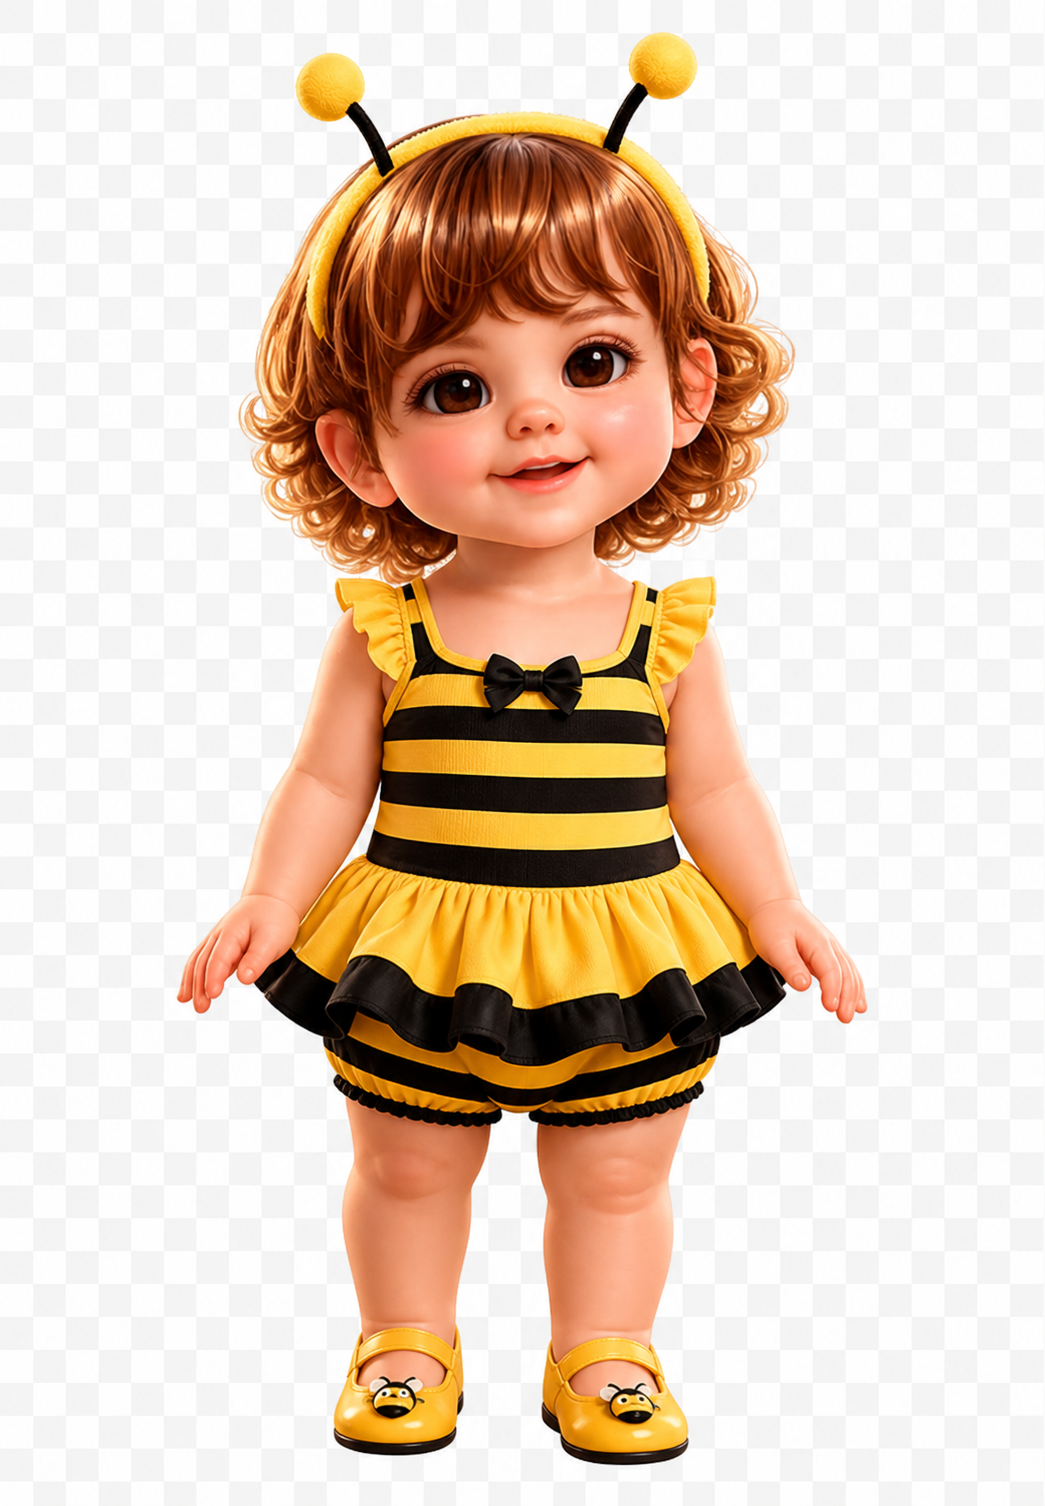
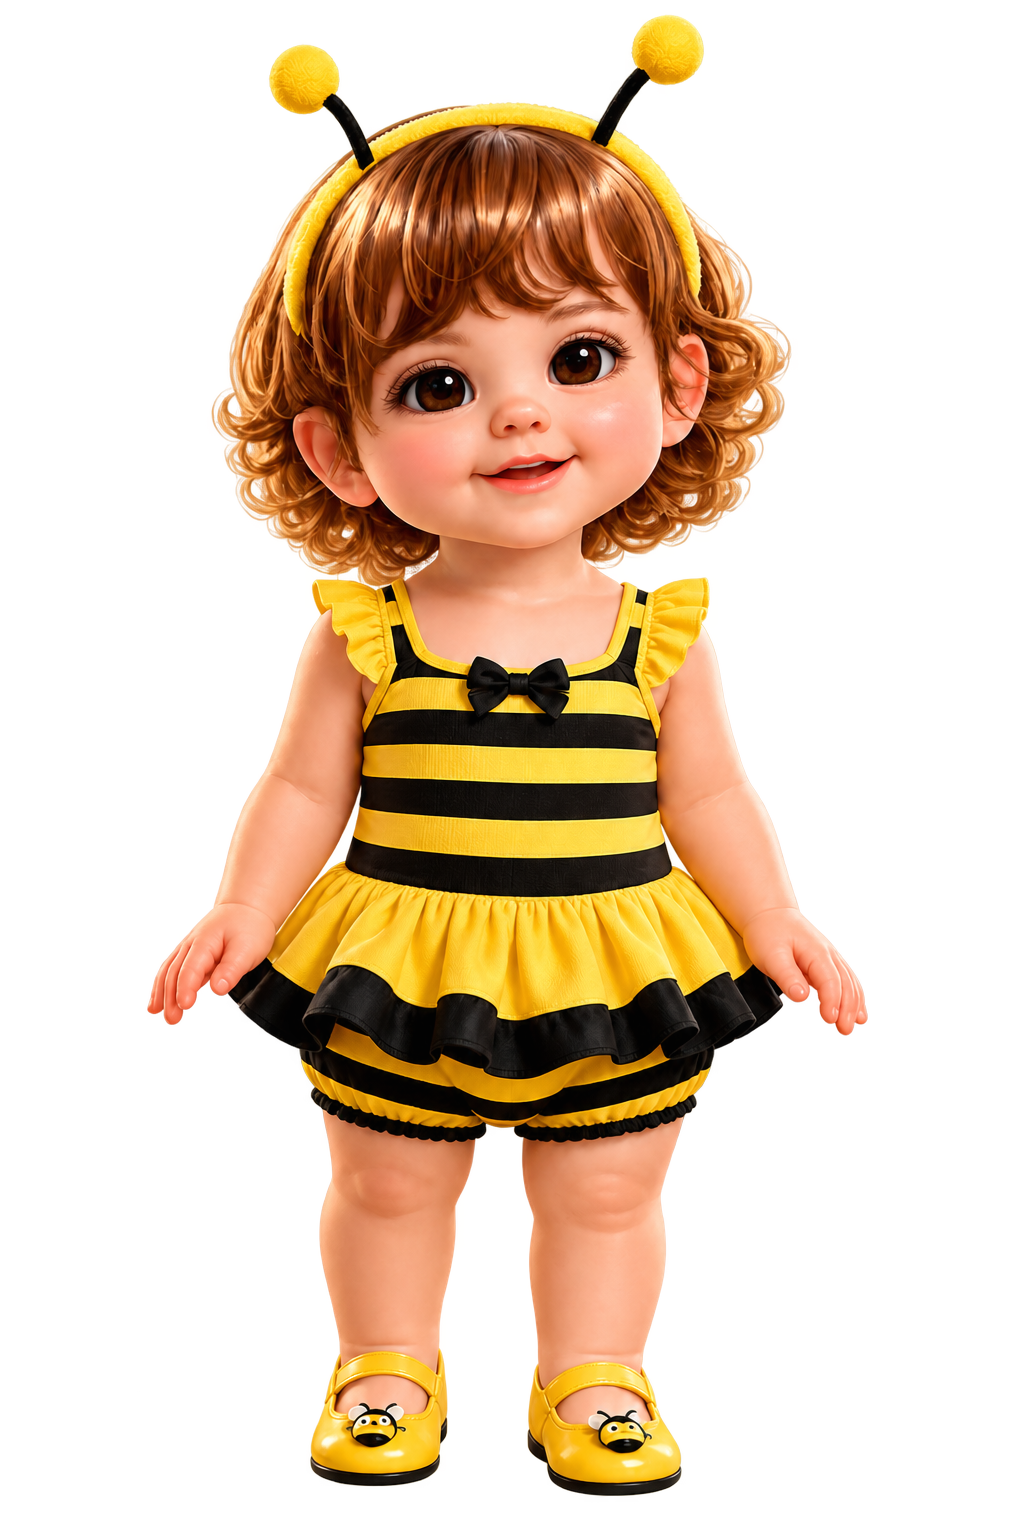
Refine wardrobe looks and mobile home layout

Changed region(s): [[0.125, 0.0, 0.8438, 0.9675]]

diff --git a/public/app/script.js b/public/app/script.js
@@ -24,12 +24,12 @@ function renderFindRound(){const group=findGroups[Math.floor(Math.random()*findG
 function chooseFind(button,item){if(button.parentElement.classList.contains("answered"))return;if(item===findTarget){button.parentElement.classList.add("answered");button.classList.add("is-correct");document.querySelector("#find-feedback").textContent="⭐ ¡Muy bien! ⭐";findRound++;updateFindProgress();playVoiceFile(findRound===5?"sonidos/voz/contenidos/guias/juego-completo.mp3?v=1":"sonidos/voz/mascota/1.mp3?v=2");findTimer=setTimeout(()=>{if(findRound===5)startFindGame();else renderFindRound()},1700)}else{button.classList.add("is-wrong");document.querySelector("#find-feedback").textContent="💛 Prueba otra vez";playVoiceFile("sonidos/voz/contenidos/guias/otra-vez.mp3?v=1");setTimeout(()=>button.classList.remove("is-wrong"),650)}}
 document.querySelector("#repeat-find").onclick=playFindPrompt;
 
-const outfits={original:"Su look original",jardinera:"Jardinera arcoíris",lluvia:"Ropa de lluvia",pijama:"Pijama de estrellas",arcoiris:"Vestido arcoíris",astronauta:"Traje de astronauta",abejita:"Disfraz de abejita",invierno:"Ropa de invierno"};
+const outfits={original:"Su look original",jardinera:"Jardinera arcoíris",lluvia:"Ropa de lluvia",pijama:"Pijama de estrellas",arcoiris:"Vestido arcoíris",astronauta:"Traje de astronauta",abejita:"Disfraz de abejita",invierno:"Ropa de invierno",blanco:"Conjunto blanco",["azul-lazo"]:"Vestido azul con lazo",ceremonia:"Vestido verde agua",coral:"Conjunto salmón"};
 const outfitImage=name=>name==="original"?"img/personajes/niña.png":`img/personajes/armario/${name}.png`;
 let selectedOutfit=(()=>{try{const saved=localStorage.getItem("holaPequeOutfit");return saved==="flores"?"original":outfits[saved]?saved:"original"}catch{return "original"}})();
 function showChosenOutfit(name){const src=outfitImage(name),mascot=document.querySelector("#mascot-button .mascot"),card=document.querySelector(".card-illustration--dress");if(mascot){mascot.src=src;mascot.alt=`Nuestra amiga lleva ${outfits[name].toLowerCase()}`}if(card)card.src=src}
 let wardrobeCarousel=null,wardrobeDirection=1;
-function startLookCarousel(){const rail=document.querySelector(".outfit-list");clearInterval(wardrobeCarousel);wardrobeDirection=1;rail.scrollTo({left:0,behavior:"auto"});wardrobeCarousel=setInterval(()=>{const end=rail.scrollWidth-rail.clientWidth;if(end<2)return;wardrobeDirection=rail.scrollLeft>=end-4?-1:rail.scrollLeft<=4?1:wardrobeDirection;rail.scrollBy({left:wardrobeDirection*Math.min(220,rail.clientWidth*.7),behavior:"smooth"})},1350)}
+function startLookCarousel(){const rail=document.querySelector(".outfit-list"),vertical=matchMedia("(max-width:560px)").matches;clearInterval(wardrobeCarousel);wardrobeDirection=1;rail.scrollTo({left:0,top:0,behavior:"auto"});wardrobeCarousel=setInterval(()=>{const pos=vertical?rail.scrollTop:rail.scrollLeft,end=vertical?rail.scrollHeight-rail.clientHeight:rail.scrollWidth-rail.clientWidth;if(end<2)return;wardrobeDirection=pos>=end-4?-1:pos<=4?1:wardrobeDirection;rail.scrollBy(vertical?{top:wardrobeDirection*Math.min(180,rail.clientHeight*.65),behavior:"smooth"}:{left:wardrobeDirection*Math.min(220,rail.clientWidth*.7),behavior:"smooth"})},1350)}
 function speakWardrobeIntro(){if(!("speechSynthesis" in window))return;window.speechSynthesis.cancel();const phrase=new SpeechSynthesisUtterance("¡Elige un look!");phrase.lang="es-ES";phrase.rate=.82;phrase.pitch=1.25;const voices=window.speechSynthesis.getVoices(),voice=voices.find(v=>v.lang.toLowerCase().startsWith("es")&&/female|mujer|elvira|ximena|dalia|helena|lucia|paulina/i.test(v.name))||voices.find(v=>v.lang.toLowerCase().startsWith("es"));if(voice)phrase.voice=voice;window.speechSynthesis.speak(phrase)}
 function startWardrobe(){changeOutfit(selectedOutfit,false);document.querySelector("#wardrobe-feedback").textContent="";startLookCarousel();speakWardrobeIntro()}
 function changeOutfit(name,speak=true){selectedOutfit=name;try{localStorage.setItem("holaPequeOutfit",name)}catch{}const avatar=document.querySelector("#wardrobe-avatar");avatar.classList.remove("is-changing");void avatar.offsetWidth;avatar.src=outfitImage(name);avatar.alt=`La niña lleva ${outfits[name].toLowerCase()}`;avatar.classList.add("is-changing");showChosenOutfit(name);document.querySelectorAll(".outfit-option").forEach(button=>button.classList.toggle("is-selected",button.dataset.outfit===name));if(speak){clearInterval(wardrobeCarousel);const feedback=document.querySelector("#wardrobe-feedback");feedback.textContent="⭐ ¡Bravo! ⭐";feedback.classList.remove("is-showing");void feedback.offsetWidth;feedback.classList.add("is-showing");playVoiceFile("sonidos/voz/mascota/1.mp3?v=2")}}

diff --git a/public/app/styles.css b/public/app/styles.css
@@ -71,3 +71,10 @@
 
 /* Ajuste definitivo por altura: nunca recorta la figura completa. */
 .wardrobe-playground #wardrobe-avatar{position:absolute!important;inset:8px!important;width:calc(100% - 16px)!important;height:calc(100% - 16px)!important;max-width:none!important;max-height:none!important;object-fit:contain!important;object-position:center bottom!important}
+
+/* Móvil: personaje inmóvil a la izquierda y carrusel vertical a la derecha. */
+@media(max-width:560px){#pantalla-armario{padding:6px}.activity-card--wardrobe{display:grid;grid-template-columns:minmax(0,1fr) 108px;grid-template-rows:auto auto minmax(0,1fr) auto;column-gap:7px;width:100%;height:calc(100dvh - 12px);padding:10px 7px 8px;overflow:hidden}.activity-card--wardrobe .activity-tag{grid-column:1/-1;grid-row:1}.activity-card--wardrobe h2{grid-column:1/-1;grid-row:2;margin:0 0 4px}.wardrobe-playground{grid-column:1;grid-row:3;width:100%;height:100%;min-height:0;margin:0;overflow:hidden}.wardrobe-playground #wardrobe-avatar{inset:3px!important;width:calc(100% - 6px)!important;height:calc(100% - 6px)!important;object-position:center bottom!important}.activity-card--wardrobe .outfit-list{grid-column:2;grid-row:3;display:flex;flex-direction:column;width:100%;height:100%;min-height:0;gap:7px;overflow-x:hidden;overflow-y:auto;padding:3px 4px 8px;scroll-snap-type:y mandatory;overscroll-behavior:contain}.activity-card--wardrobe .outfit-option{flex:0 0 92px;width:100%;height:92px;scroll-snap-align:center}.wardrobe-feedback{grid-column:1;grid-row:4;align-self:center;margin:0}.wardrobe-dance{grid-column:2;grid-row:4;width:100%;min-height:42px;margin:2px 0 0;padding:0 4px}.wardrobe-dance span{display:none}}
+
+/* Portada móvil: mascota fija a la izquierda, juegos desplazables a la derecha. */
+@media(max-width:560px){.app-shell{width:100%;padding:3px 8px 18px}.hero{position:relative;z-index:2}.home{display:grid!important;grid-template-columns:minmax(132px,42vw) minmax(0,1fr)!important;align-items:start!important;gap:8px!important;width:100%!important;margin-top:8px!important}.home .mascot-button{grid-column:1;order:initial!important;position:sticky!important;top:12px!important;width:100%!important;max-width:190px!important;margin:0!important;align-self:start!important}.home .mascot-button .mascot{display:block!important;width:100%!important;max-height:calc(100dvh - 185px)!important;object-fit:contain!important;object-position:center top!important}.home .menu{grid-column:2;order:initial!important;display:grid!important;grid-template-columns:1fr!important;gap:8px!important;width:100%!important;min-width:0;margin:0!important}.home .menu-card,.home .menu-card--songs,.home .menu-card--stories,.home .menu-card--dress{grid-column:1!important;width:100%!important;min-height:116px!important;padding:5px 7px 8px!important;justify-self:stretch!important}.home .menu-card img{height:72px!important}.home .menu-card span{text-align:center!important;font-size:.92rem!important}}
+@media(max-width:380px){.home{grid-template-columns:116px minmax(0,1fr)!important}.home .mascot-button{width:116px!important}.home .menu-card,.home .menu-card--songs,.home .menu-card--stories,.home .menu-card--dress{min-height:108px!important}.home .menu-card img{height:65px!important}}

diff --git a/public/app/index.html b/public/app/index.html
@@ -6,7 +6,7 @@
   <meta name="theme-color" content="#7357e8">
   <meta name="description" content="Juegos educativos para aprender animales, colores, formas, números y vocales.">
   <title>Hola Peque · Aprende jugando</title>
-  <link rel="stylesheet" href="styles.css?v=20260828-2">
+  <link rel="stylesheet" href="styles.css?v=20260828-3">
 </head>
 <body>
   <main class="app-shell">
@@ -144,6 +144,10 @@
         <button class="outfit-option" data-outfit="astronauta" aria-label="Traje de astronauta"><img src="img/personajes/armario/astronauta.png" alt=""><span>🚀</span></button>
         <button class="outfit-option" data-outfit="abejita" aria-label="Disfraz de abejita"><img src="img/personajes/armario/abejita.png" alt=""><span>🐝</span></button>
         <button class="outfit-option" data-outfit="invierno" aria-label="Ropa de invierno"><img src="img/personajes/armario/invierno.png" alt=""><span>❄</span></button>
+        <button class="outfit-option" data-outfit="blanco" aria-label="Conjunto blanco"><img src="img/personajes/armario/blanco.png" alt=""><span>🤍</span></button>
+        <button class="outfit-option" data-outfit="azul-lazo" aria-label="Vestido azul con lazo"><img src="img/personajes/armario/azul-lazo.png" alt=""><span>🎀</span></button>
+        <button class="outfit-option" data-outfit="ceremonia" aria-label="Vestido verde agua"><img src="img/personajes/armario/ceremonia.png" alt=""><span>🌿</span></button>
+        <button class="outfit-option" data-outfit="coral" aria-label="Conjunto salmón"><img src="img/personajes/armario/coral.png" alt=""><span>☀</span></button>
       </div>
       <p id="wardrobe-feedback" class="wardrobe-feedback" aria-live="polite"></p>
       <button id="wardrobe-dance" class="wardrobe-dance" aria-label="Haz bailar a la niña">🎵 <span>¡A bailar!</span></button>
@@ -190,7 +194,7 @@
     </article>
   </section>
   <div id="audio-status" class="sr-only" aria-live="polite"></div>
-  <script src="script.js?v=20260828-2"></script>
+  <script src="script.js?v=20260828-3"></script>
 </body>
 </html>
 
